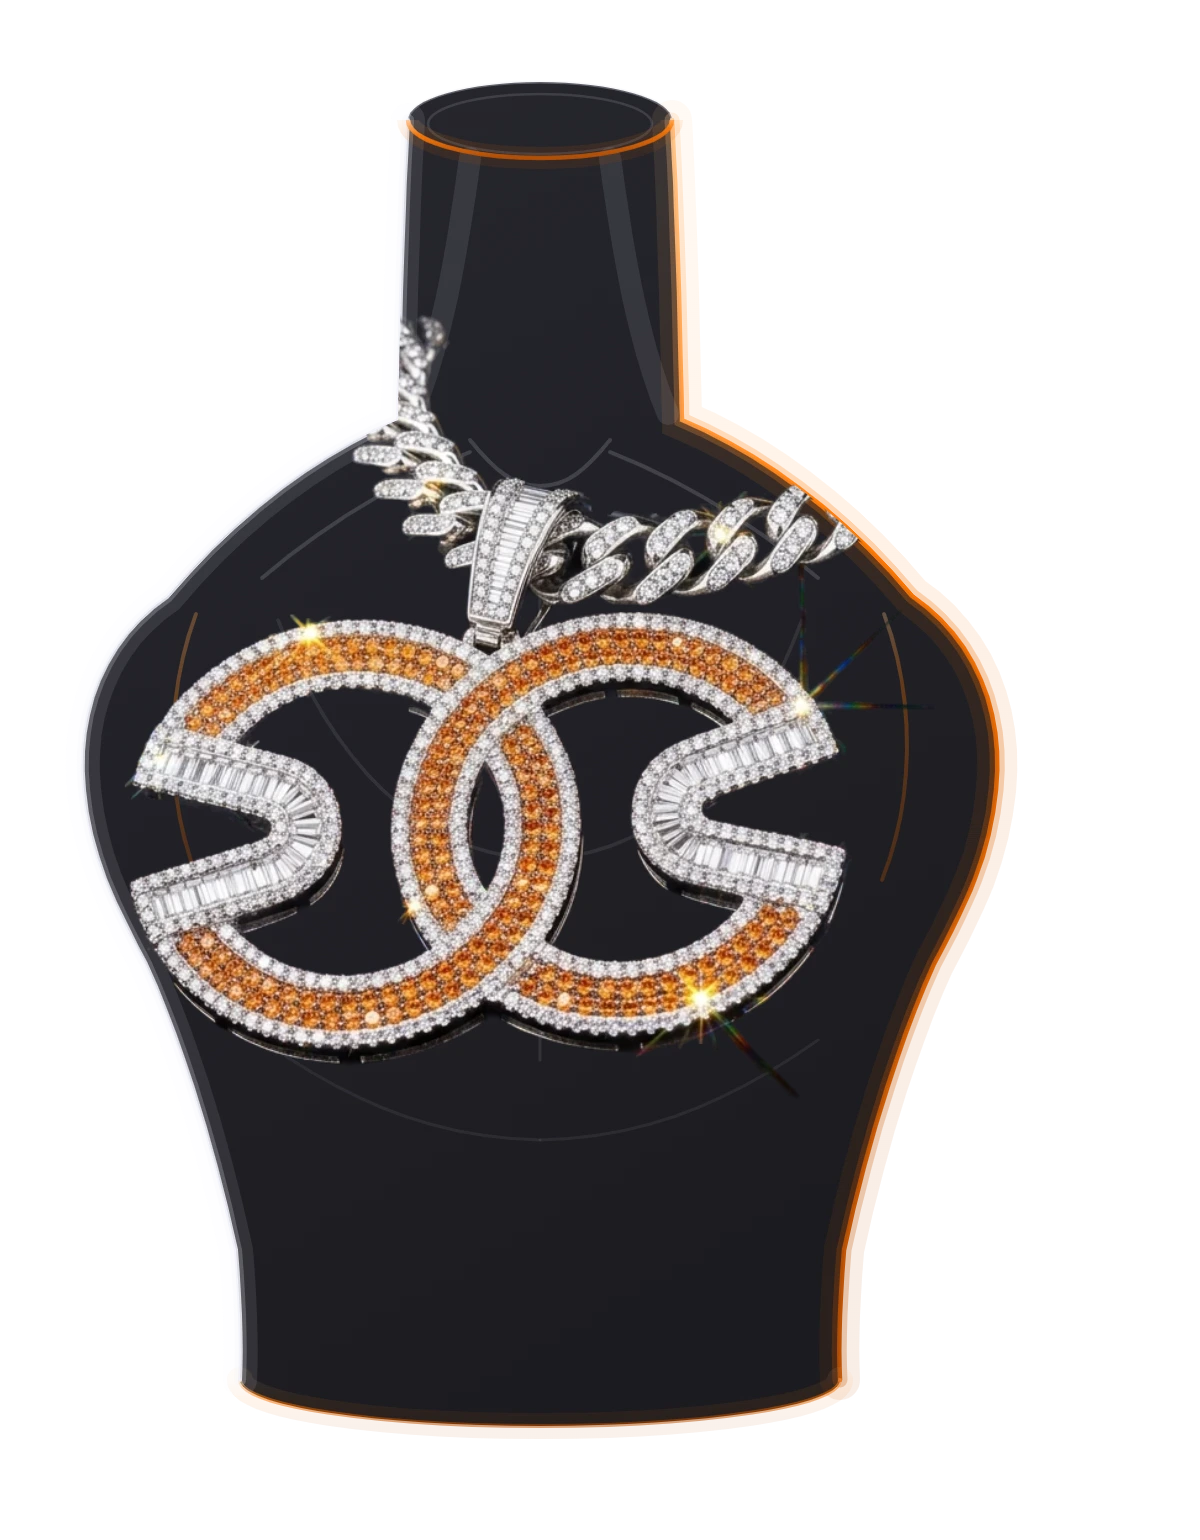
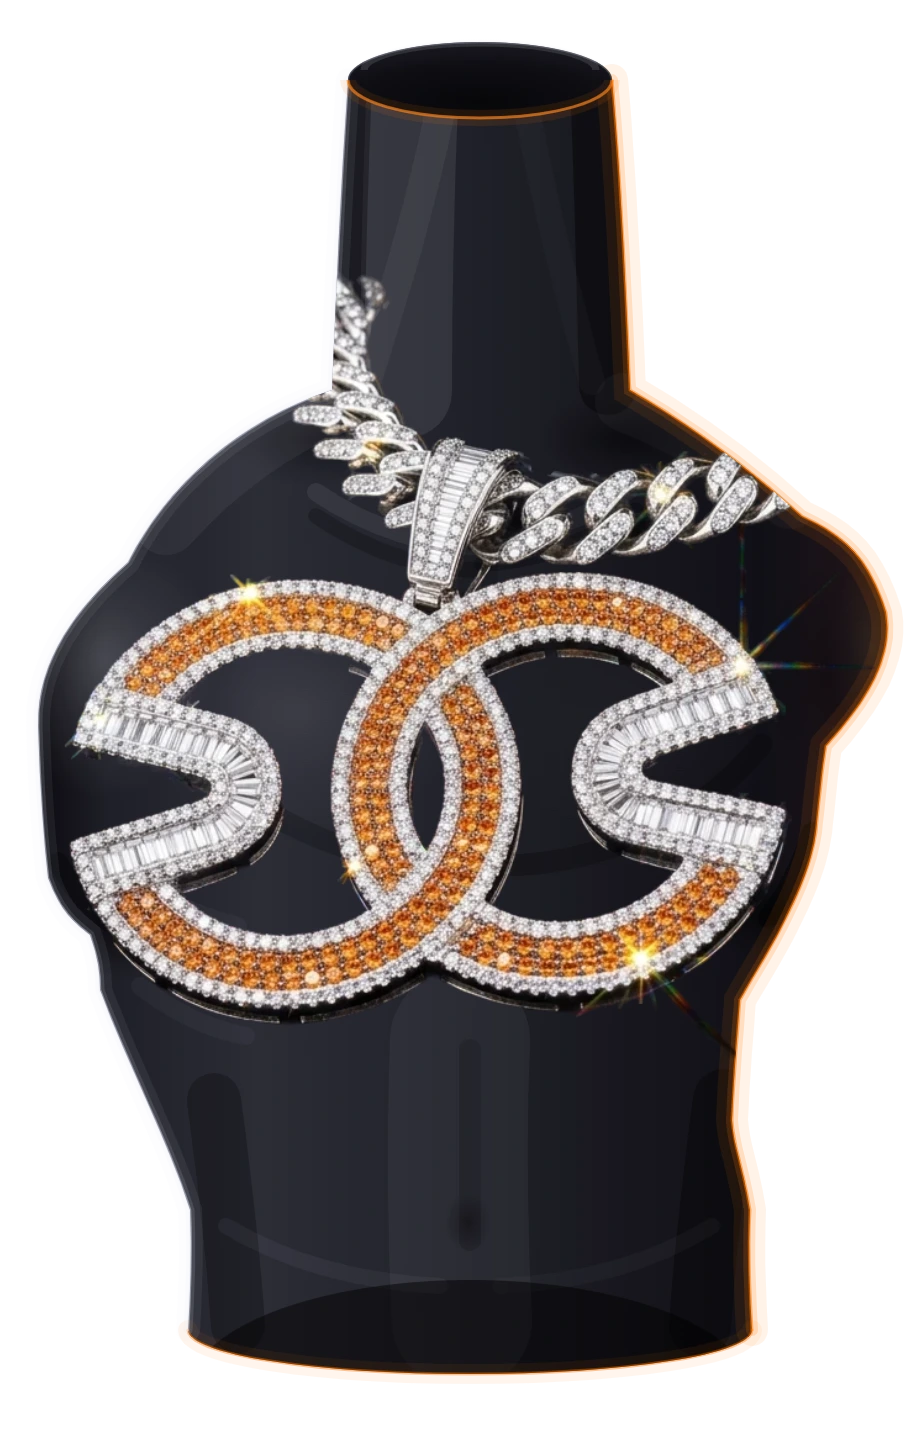
feat: o dorso ganha volume e silhueta de tronco
Mesma receita que o pulso do 100K recebeu: degrade atravessando a largura
para dar o cilindro, realces em degrade radial que acabam em nada, anatomia
em sombra larga e fraca, e o contorno reduzido a luz que lambe a borda. Com
massa embaixo, o fio aceso de antes lia como neon.

So que, no busto, volume sozinho nao bastou: com a silhueta lisa ele voltou
a ser o frasco de perfume de duas versoes atras. Massa escura, gargalo
cilindrico, ombro redondo e base estreita sao exatamente o desenho de um
frasco, e nenhuma pintura desmente isso. O que desmente e a silhueta —
deltoide saindo do contorno, axila entrando, cintura caindo reta, e os dois
lados diferentes. Frasco e simetrico; corpo nao.

Esse recorte so coube porque o contorno do pingente foi medido linha a linha
na foto, em vez de estimado. A margem e pequena, em alguns pontos 15: a
borda direita do corpo precisa passar de 851 em y 576 e de 802 em y 813, e a
esquerda precisa chegar a 47 em y 852. Medido, deu para esculpir o ombro
onde a foto deixa — e deu tambem para descobrir que o lado direito da
corrente, que chega a 983, e so a ponta solta que o recorte come de
proposito.

O corte do pescoco virou vazio escuro com a aresta da frente acesa: foi a
luz por dentro que, na primeira versao, fez a peca ler como frasco.

O quadro apertou de 1200x1540 para 918x1430 em volta do desenho novo, e com
isso o colar cresce cerca de 23% na cena.

diff --git a/public/arte/compor.html b/public/arte/compor.html
@@ -33,13 +33,16 @@
 /* O corpo do 500K. A foto e recortada por ele, e e isso que faz as duas
    pontas da corrente sumirem atras do pescoco e do ombro em vez de acabarem
    no ar. Tem de ser igual ao `silhueta` de dorso.svg. */
-const BUSTO = "M408 120 C 402 220 400 330 398 420 C 322 452 240 510 168 596"
-  + " C 104 640 76 712 84 790 C 90 856 114 904 146 964"
-  + " C 176 1030 210 1130 236 1250 C 240 1300 242 1346 240 1380"
-  + " A 300 46 0 0 0 840 1380 C 838 1346 840 1300 844 1250"
-  + " C 870 1130 904 1030 934 964 C 966 904 990 856 996 790"
-  + " C 1004 712 976 640 912 596 C 840 510 758 452 682 420"
-  + " C 680 330 678 220 672 120 A 132 38 0 0 0 408 120 Z";
+const BUSTO = "M348 80 C 340 190 336 300 332 390 C 240 420 166 486 128 562"
+  + " C 78 606 36 660 38 726 C 40 792 44 844 48 878"
+  + " C 60 912 76 924 90 935 C 98 958 100 972 100 990"
+  + " C 128 1066 168 1140 190 1210 C 192 1252 190 1296 188 1330"
+  + " A 282 44 0 0 0 752 1330 C 750 1296 748 1252 750 1210"
+  + " C 742 1160 734 1150 732 1120 C 734 1070 738 1030 740 1000"
+  + " C 758 968 774 944 786 918 C 800 890 812 862 816 832"
+  + " C 820 796 822 770 826 746 C 868 700 894 656 886 612"
+  + " C 870 560 846 536 802 516 C 736 456 672 414 630 390"
+  + " C 626 300 622 190 612 80 A 132 38 0 0 0 348 80 Z";
 
 /* O arco de baixo do vao da pulseira, medido na propria foto. Divide a
    imagem em duas: acima dele o braco passa na frente do metal, abaixo passa
@@ -51,9 +54,9 @@ const ABAIXO = "M-400 2200 L 1600 2200 L 1600 421 " + ARCO;
 
 const PECAS = [
   {
-    nome: "colar-500k-vestido.webp", w: 1200, h: 1540,
+    nome: "colar-500k-vestido.webp", w: 918, h: 1430,
     arte: "/arte/dorso.svg", foto: "/images/colar-500k.webp",
-    quadro: [115, 300, 880, 808],
+    quadro: [55, 260, 880, 808],
     camadas: [{ o: "arte" }, { o: "foto", recorte: BUSTO }],
   },
   {
